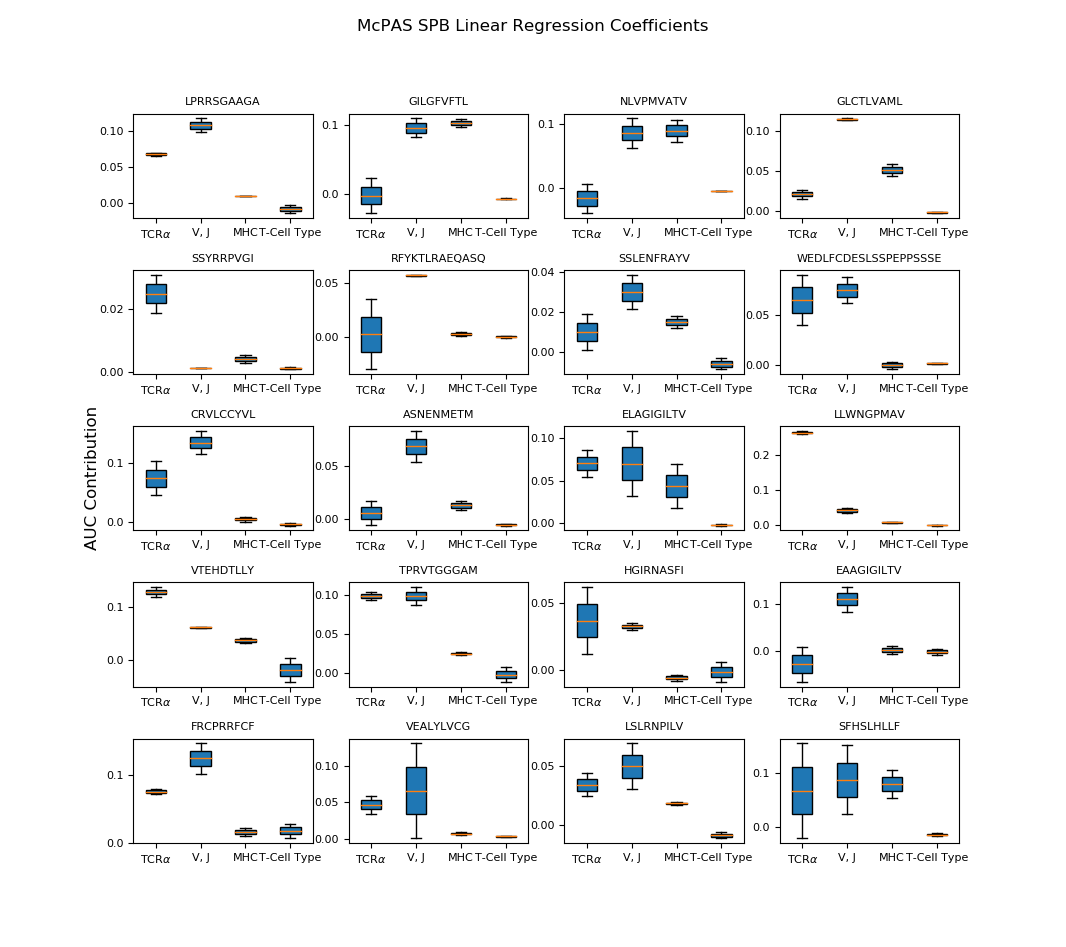
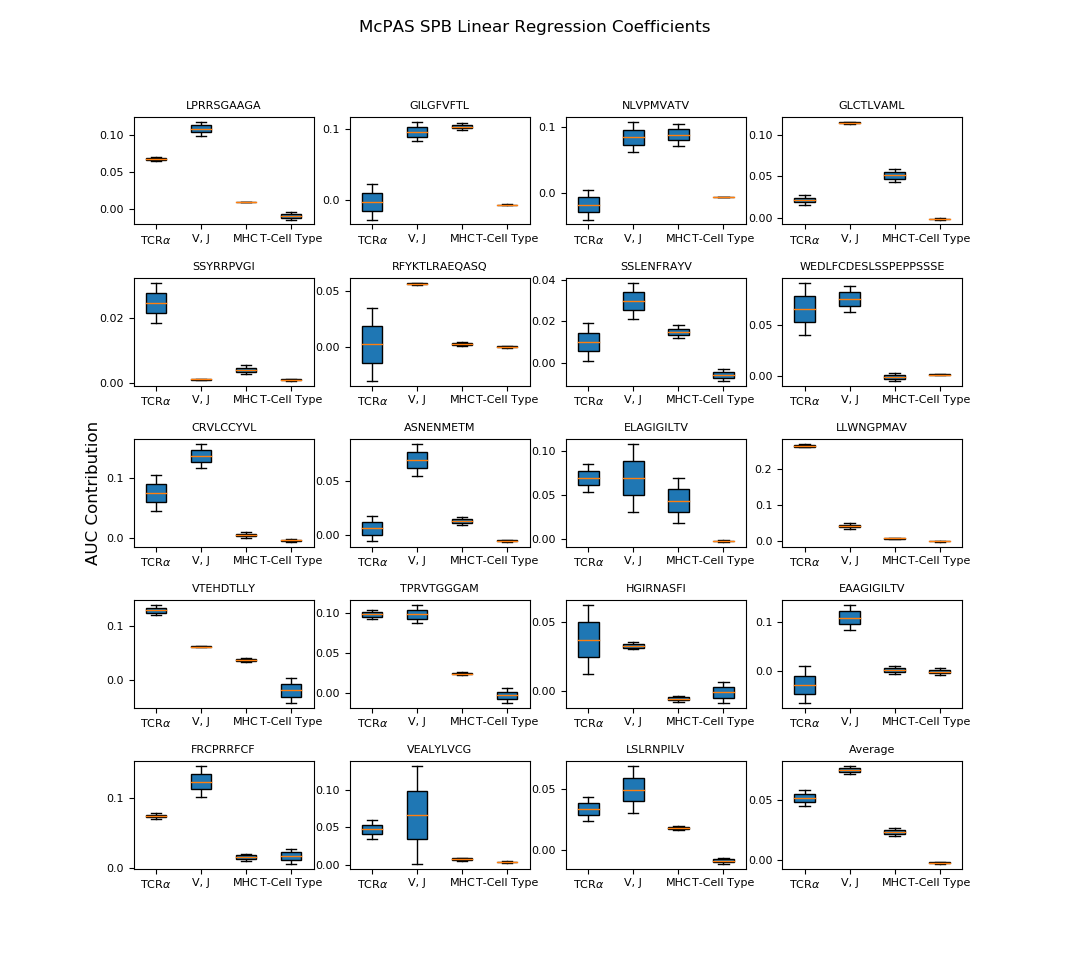
average plot in SPB coefficients

diff --git a/plots/plots.py b/plots/plots.py
@@ -124,7 +124,8 @@ def linear_regression_coefficients(test_type):
 def spb_linear_regression_coefficients(results_file):
     results = pd.read_csv(results_file)
     peptides = results['peptide']
-    for j, peptide in enumerate(peptides):
+    avg = []
+    for j, peptide in enumerate(peptides[:-1]):
         # alpha, vj, mhc, t-type
         a = np.zeros((5, 4))
         for i in range(1, 5):
@@ -139,18 +140,28 @@ def spb_linear_regression_coefficients(results_file):
         assert len(labels) == len(reg_ae.coef_.reshape(-1, 1))
         plot_data = np.concatenate((reg_ae.coef_.reshape(-1, 1),
                                     reg_lstm.coef_.reshape(-1, 1)), axis=1)
+        avg.append(plot_data)
         plt.subplot(5, 4, j + 1)
         bplot = plt.boxplot(plot_data.T,
                             vert=True,  # vertical box alignment
                             patch_artist=True,  # fill with color
                             labels=labels),
-        # plt.title('SPB (' + str(peptide) + ') Linear Regression Coefficients')
         plt.title(str(peptide), fontdict={'fontsize': 8})
         # plt.xlabel(str(peptide))
         plt.xticks(fontsize=8)
         plt.yticks(fontsize=8)
         if j == 8:
             plt.ylabel('AUC Contribution', fontdict={'fontsize': 12})
+    avg_plot_data = np.average(avg, axis=0)
+    plt.subplot(5, 4, 20)
+    bplot = plt.boxplot(avg_plot_data.T,
+                        vert=True,  # vertical box alignment
+                        patch_artist=True,  # fill with color
+                        labels=labels),
+    plt.title('Average', fontdict={'fontsize': 8})
+    # plt.xlabel(str(peptide))
+    plt.xticks(fontsize=8)
+    plt.yticks(fontsize=8)
     # plt.tight_layout(pad=0, rect=(0,0,1,1))
     plt.subplots_adjust(left=None, bottom=None, right=None, top=None, wspace=None, hspace=0.5)
     plt.suptitle('McPAS SPB Linear Regression Coefficients', fontdict={'fontsize': 14})
@@ -194,10 +205,9 @@ def tpp_linear_regression_coefficients(results_file):
     plt.show()
 
 
-
 if __name__ == '__main__':
     # mhc_type_comp_logos()
     # linear_regression_coefficients('tpp')
     # linear_regression_coefficients('spb')
-    # spb_linear_regression_coefficients('mcpas_spb_results.csv')
-    tpp_linear_regression_coefficients('tpp_results.csv')
+    spb_linear_regression_coefficients('mcpas_spb_results.csv')
+    # tpp_linear_regression_coefficients('tpp_results.csv')
